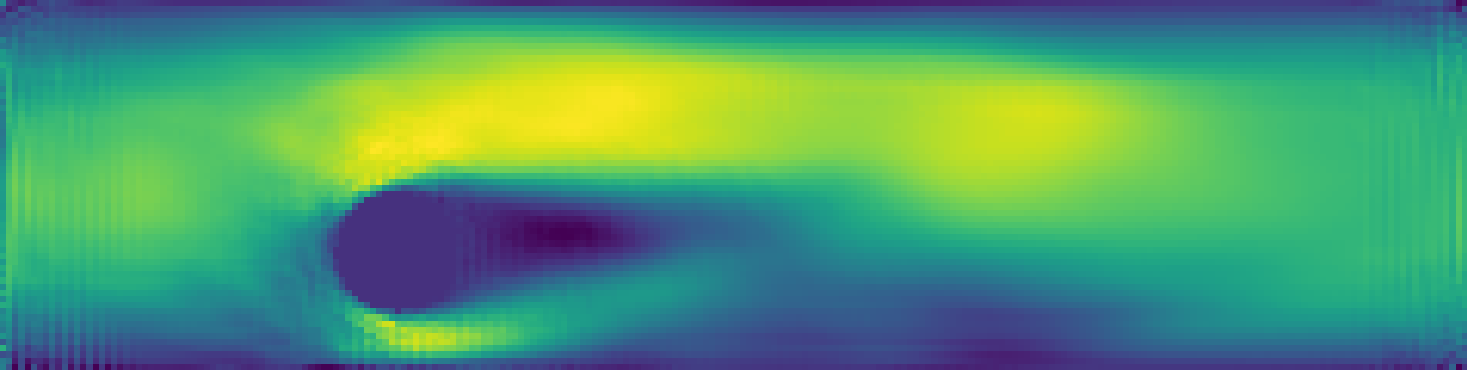
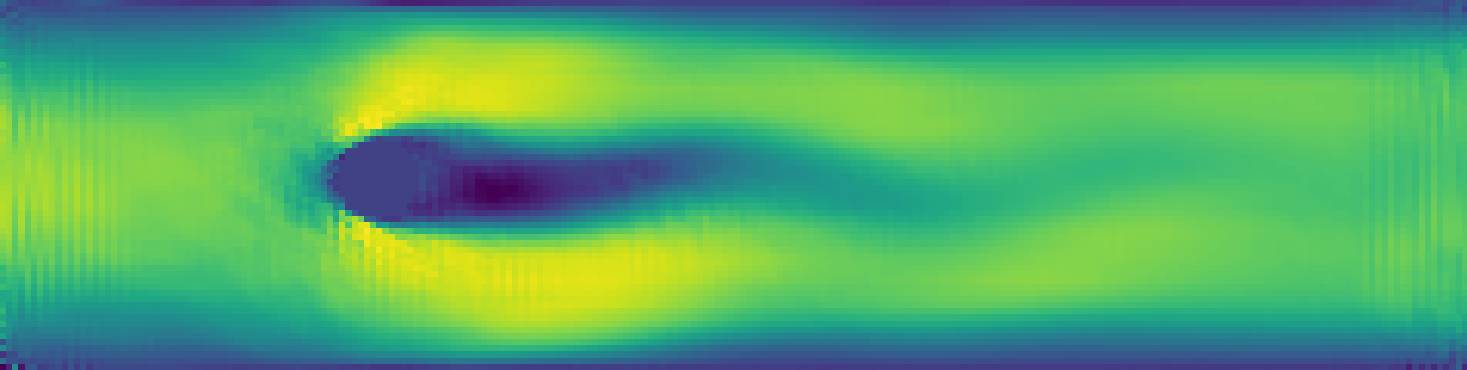
cylidner_125m

diff --git a/eagle/eval_DRN.py b/eagle/eval_DRN.py
@@ -69,7 +69,7 @@ def evaluate():
         state = state.cpu()
         mask = mask.cpu()
 
-        if i == 15:
+        if i == 0:
             print(f'{state_hat.shape = }, {state.shape = }, {mask.shape = }')
             plot_final(state_hat[0], state[0])
             exit(9)
